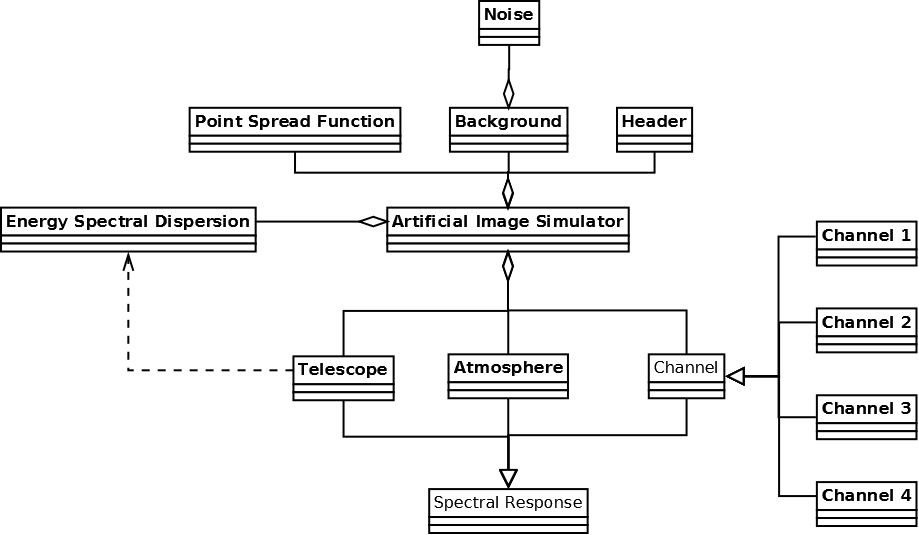
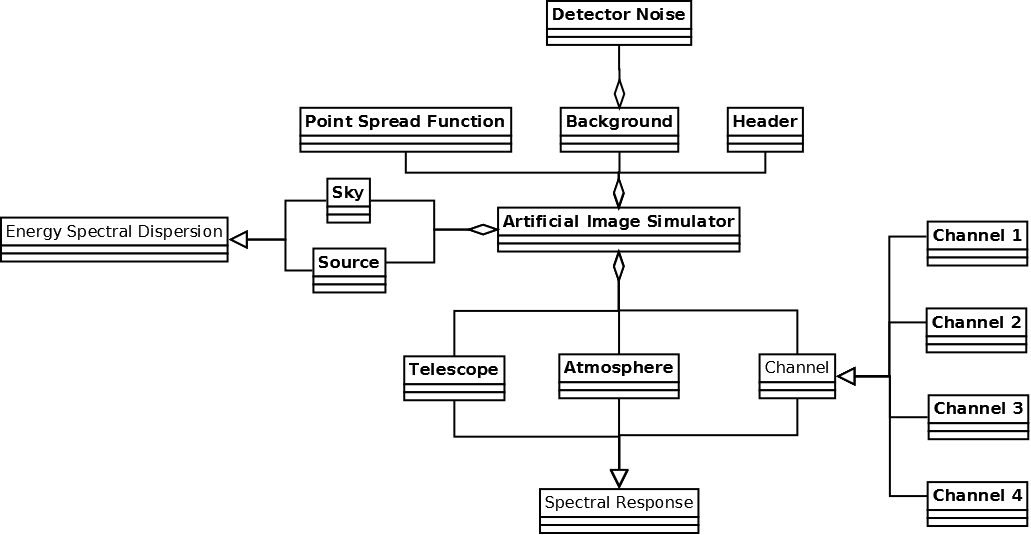
The Spectral Response class was implemented

diff --git a/AIS/Spectral_Response/spectral_response.py b/AIS/Spectral_Response/spectral_response.py
@@ -10,6 +10,9 @@ Theses systems are the atmosphere, the telescope, and the SPARC4 instrument.
 
 import os
 import pandas as pd
+from scipy.interpolate import splev, splrep
+import numpy as np
+from numpy import ndarray
 
 
 class Spectral_Response:
@@ -17,13 +20,7 @@ class Spectral_Response:
     Spectral Response class
 
     The Spectral Response is an abstract class that represents the optical systems present in the light path 
-    between the object and a detector on the ground. 
-
-    Parameters
-        ----------
-
-        csv_file_name: str
-            The file name containing the spectral response of the optical system.
+    between the object and a detector on the ground.     
 
     Yields
     ------
@@ -31,27 +28,77 @@ class Spectral_Response:
             The spectral response of the optical system.
     """
     _BASE_PATH = os.path.join('AIS', 'Spectral_Response')
+    _CSV_FILE_NAME = 'csv_file.csv'
 
-    def __init__(self, csv_file_name: str) -> None:
+    def __init__(self) -> None:
         """Initialize the class."""
-        self.csv_file_name = csv_file_name
         return
 
     @staticmethod
-    def _read_csv_file(csv_file_name: str) -> tuple:
+    def _read_csv_file(csv_file_name):
         ss = pd.read_csv(csv_file_name)
-        return ss['Wavelength (nm)'], ss['Transmitance (%)']
+        return np.array(ss['Wavelength (nm)']), np.array(ss['Transmitance (%)'])
 
-    def get_spectral_response(self) -> list:
-        """Return the spectral Response.
+    @staticmethod
+    def _interpolate_spectral_response(wavelength, spectral_response, obj_wavelength):
+        spl = splrep(wavelength, spectral_response)
+        spectral_response = splev(obj_wavelength, spl)
+        return spectral_response
+
+    def get_spectral_response(self, obj_wavelength: ndarray) -> ndarray:
+        """Return the spectral response.
 
         Parameters
         ----------
+        obj_wavelength: array like
+            The wavelength interval, in nm, of the object.
 
-        spectral_response: array_like.
+        Yields
+        ------
+        spectral_response: arraylike
             The spectral response of the optical system.            
         """
-        csv_file_name = os.path.join(self._BASE_PATH, self.csv_file_name)
-        _, transmitance = self._read_csv_file(csv_file_name)
+        csv_file_name = os.path.join(self._BASE_PATH, self._CSV_FILE_NAME)
+        sys_wavelength, spectral_response = self._read_csv_file(
+            csv_file_name)
+        spectral_response = self._interpolate_spectral_response(
+            sys_wavelength, spectral_response, obj_wavelength)
 
-        return transmitance
+        return spectral_response
+
+    def apply_spectral_response(self, esd: ndarray, obj_wavelength: ndarray) -> ndarray:
+        """Apply the spectral response.
+
+        Parameters
+        ----------
+            esd: array like
+                The Energy Spectral Distribution (ESD) of the object.
+            obj_wavelength: array like
+                The wavelength interval, in nm, of the object.
+
+        Yields
+        ------        
+            reduced_esd: array like
+                The Energy Spectral Distribution (ESD) of the object subtracted from the loses
+                related to the spectral response of the system.
+        """
+        spectral_response = self.get_spectral_response(obj_wavelength)
+        reduced_esd = np.multiply(spectral_response, esd)
+
+        return reduced_esd
+
+
+class Telescope(Spectral_Response):
+    """
+    Telescope class
+
+    This class extends the Spectral Response class, and it represents the spectral response of the
+    1.6 m Perkin-Elmer telescope of the Picos dos Dias observatory.
+
+    Yields
+    ------
+        spectral_response: array_like
+            The spectral response of the optical system.
+    """
+
+    _CSV_FILE_NAME = 'telescope.csv'

diff --git a/tests/test_Spectral_Response.py b/tests/test_Spectral_Response.py
@@ -11,14 +11,20 @@ from AIS.Spectral_Response import Spectral_Response
 import pytest
 import os
 import numpy as np
+from tests.AIS_spectral_response_curves import wavelength_interval as obj_wavelength
+from scipy.interpolate import splev, splrep
+import pandas as pd
 
 csv_file_name = 'csv_file.csv'
 BASE_PATH = os.path.join('AIS', 'Spectral_Response')
+ss = pd.read_csv(os.path.join(BASE_PATH, csv_file_name))
+wavelength = ss['Wavelength (nm)']
+spectral_response = ss['Transmitance (%)']
 
 
 @pytest.fixture
 def sr():
-    return Spectral_Response(csv_file_name)
+    return Spectral_Response()
 
 
 def test_csv_file_name(sr):
@@ -33,10 +39,30 @@ def test_base_path(sr):
 
 def test_read_csv_file(sr):
     csv = os.path.join(BASE_PATH, csv_file_name)
-    wavelength, transmitance = sr._read_csv_file(csv)
-    assert np.allclose(wavelength, [0])
-    assert np.allclose(transmitance, [0])
+    new_wavelength, new_transmitance = sr._read_csv_file(csv)
+    assert np.allclose(new_wavelength, wavelength)
+    assert np.allclose(new_transmitance, spectral_response)
+
+
+spl = splrep(wavelength, spectral_response)
+new_spectral_response = splev(obj_wavelength, spl)
+
+
+def test_interpolate_spectral_response(sr):
+    class_spectral_response = sr._interpolate_spectral_response(
+        wavelength, spectral_response, obj_wavelength)
+    assert np.allclose(class_spectral_response, new_spectral_response)
 
 
 def test_get_spectral_response(sr):
-    assert np.allclose(sr.get_spectral_response(), [0])
+    class_spectral_response = sr.get_spectral_response(obj_wavelength)
+    assert np.allclose(class_spectral_response, new_spectral_response)
+
+
+esd = np.ones(len(obj_wavelength))
+reduced_esd = np.multiply(new_spectral_response, esd)
+
+
+def test_apply_spectral_response(sr):
+    class_reduced_esd = sr.apply_spectral_response(esd, obj_wavelength)
+    assert np.allclose(class_reduced_esd, reduced_esd)

diff --git a/tests/test_Telescope.py b/tests/test_Telescope.py
@@ -1,0 +1,31 @@
+# -*- coding: utf-8 -*-
+"""
+Tests of the Spectral Response Class
+
+Oct 19th 2022
+
+@author: denis
+"""
+
+from AIS.Spectral_Response import Telescope
+import pytest
+import os
+import numpy as np
+from tests.AIS_spectral_response_curves import wavelength_interval as obj_wavelength
+from scipy.interpolate import splev, splrep
+import pandas as pd
+
+csv_file_name = 'telescope.csv'
+BASE_PATH = os.path.join('AIS', 'Spectral_Response')
+ss = pd.read_csv(os.path.join(BASE_PATH, csv_file_name))
+wavelength = ss['Wavelength (nm)']
+spectral_response = ss['Transmitance (%)']
+
+
+@pytest.fixture
+def telescope():
+    return Telescope()
+
+
+def test_csv_file_name(telescope):
+    assert telescope.csv_file_name == csv_file_name

diff --git a/tests/__init__.py b/tests/__init__.py
@@ -16,6 +16,6 @@ from . import (
     test_PSF_class,
     test_S4_SR_class,
     test_SC_class,
-    test_TEL_SR,
-    test_Spectral_Response
+    test_Spectral_Response,
+    test_Telescope
 )

diff --git a/AIS/Spectral_Response/__init__.py b/AIS/Spectral_Response/__init__.py
@@ -4,4 +4,4 @@
 
 """
 
-from .spectral_response import Spectral_Response
+from .spectral_response import Spectral_Response, Telescope
